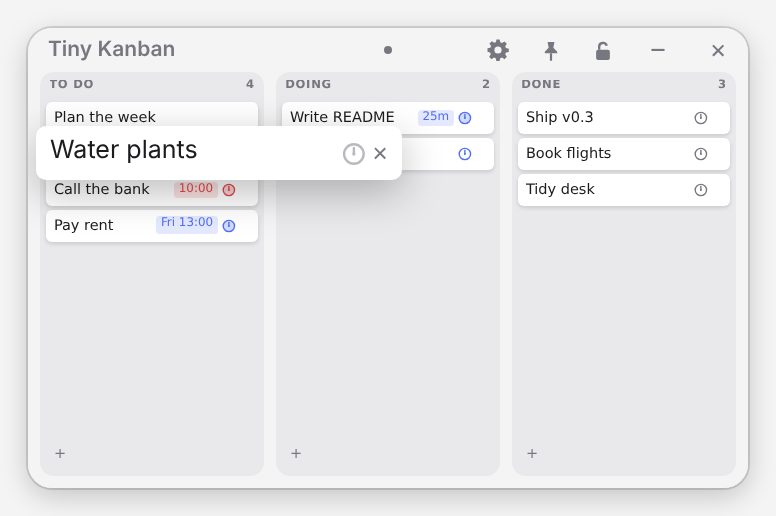
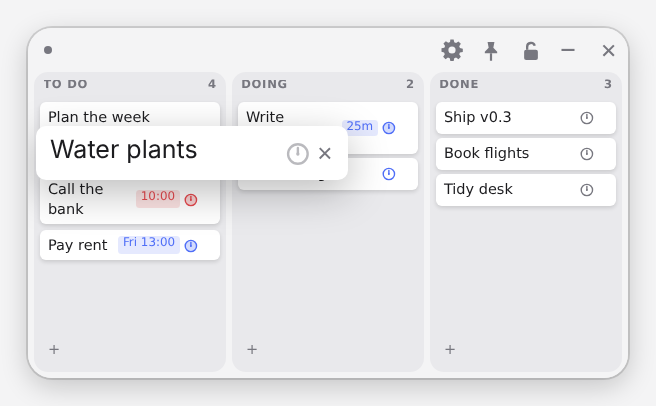
Undo README and release-doc changes; screenshots: small mini-mode window, 2-5 words per card
Claude-Session: https://claude.ai/code/session_01Tnc5YErR2DXgj6Akr3BaSB

diff --git a/README.md b/README.md
@@ -1,6 +1,6 @@
 # Tiny Kanban
 
-<p align="center"><img src="docs/screenshots/board-dark.png" alt="Tiny Kanban board in dark mode" width="560"></p>
+<p align="center"><img src="docs/screenshots/board-light.png" alt="Tiny Kanban board in light mode" width="760"></p>
 
 A tiny, fast desktop kanban board for Windows, macOS and Linux. One sentence per card, drag between columns,
 nothing else in the way. Installers are about 2 MB, because it uses your OS's own web engine instead of bundling a
@@ -21,8 +21,8 @@ browser.
 
 | | |
 |:-:|:-:|
-| <img src="docs/screenshots/board-light.png" alt="Light mode with timers and deadlines"> | <img src="docs/screenshots/mini-mode.png" alt="Mini mode with a card popped out"> |
-| Light mode, with a timer, a deadline and an overdue card | Mini mode: hover a card to read it full size |
+| <img src="docs/screenshots/board-dark.png" alt="Dark mode with terracotta accent"> | <img src="docs/screenshots/mini-mode.png" alt="Mini mode with a card popped out"> |
+| Dark mode, terracotta accent | Mini mode: hover a card to read it full size |
 | <img src="docs/screenshots/settings.png" alt="Settings panel"> | <img src="docs/screenshots/overlay.png" alt="Locked see-through board over a code editor"> |
 | Settings: columns, colours, shortcuts, archive | Locked at 70% opacity over an editor; clicks go through |
 

diff --git a/docs/development.md b/docs/development.md
@@ -26,8 +26,7 @@ GitHub Actions builds Linux (`.deb`, `.rpm`), Windows (`.msi`, `.exe`) and macOS
 ## Releasing
 
 1. Bump `version` in `src-tauri/tauri.conf.json`, `src-tauri/Cargo.toml` and `package.json`.
-2. Run `npm run screenshots` to refresh `docs/screenshots` (needs Playwright with Chromium), and commit them.
-3. Either push a `v<version>` tag, or go to **Actions → Build → Run workflow** on `main` and tick
+2. Either push a `v<version>` tag, or go to **Actions → Build → Run workflow** on `main` and tick
    **Publish a GitHub Release**. That tags `v<version>` itself. Releases are only published from `main` or a `v*`
    tag; ticking the box on another branch builds without releasing.
 
